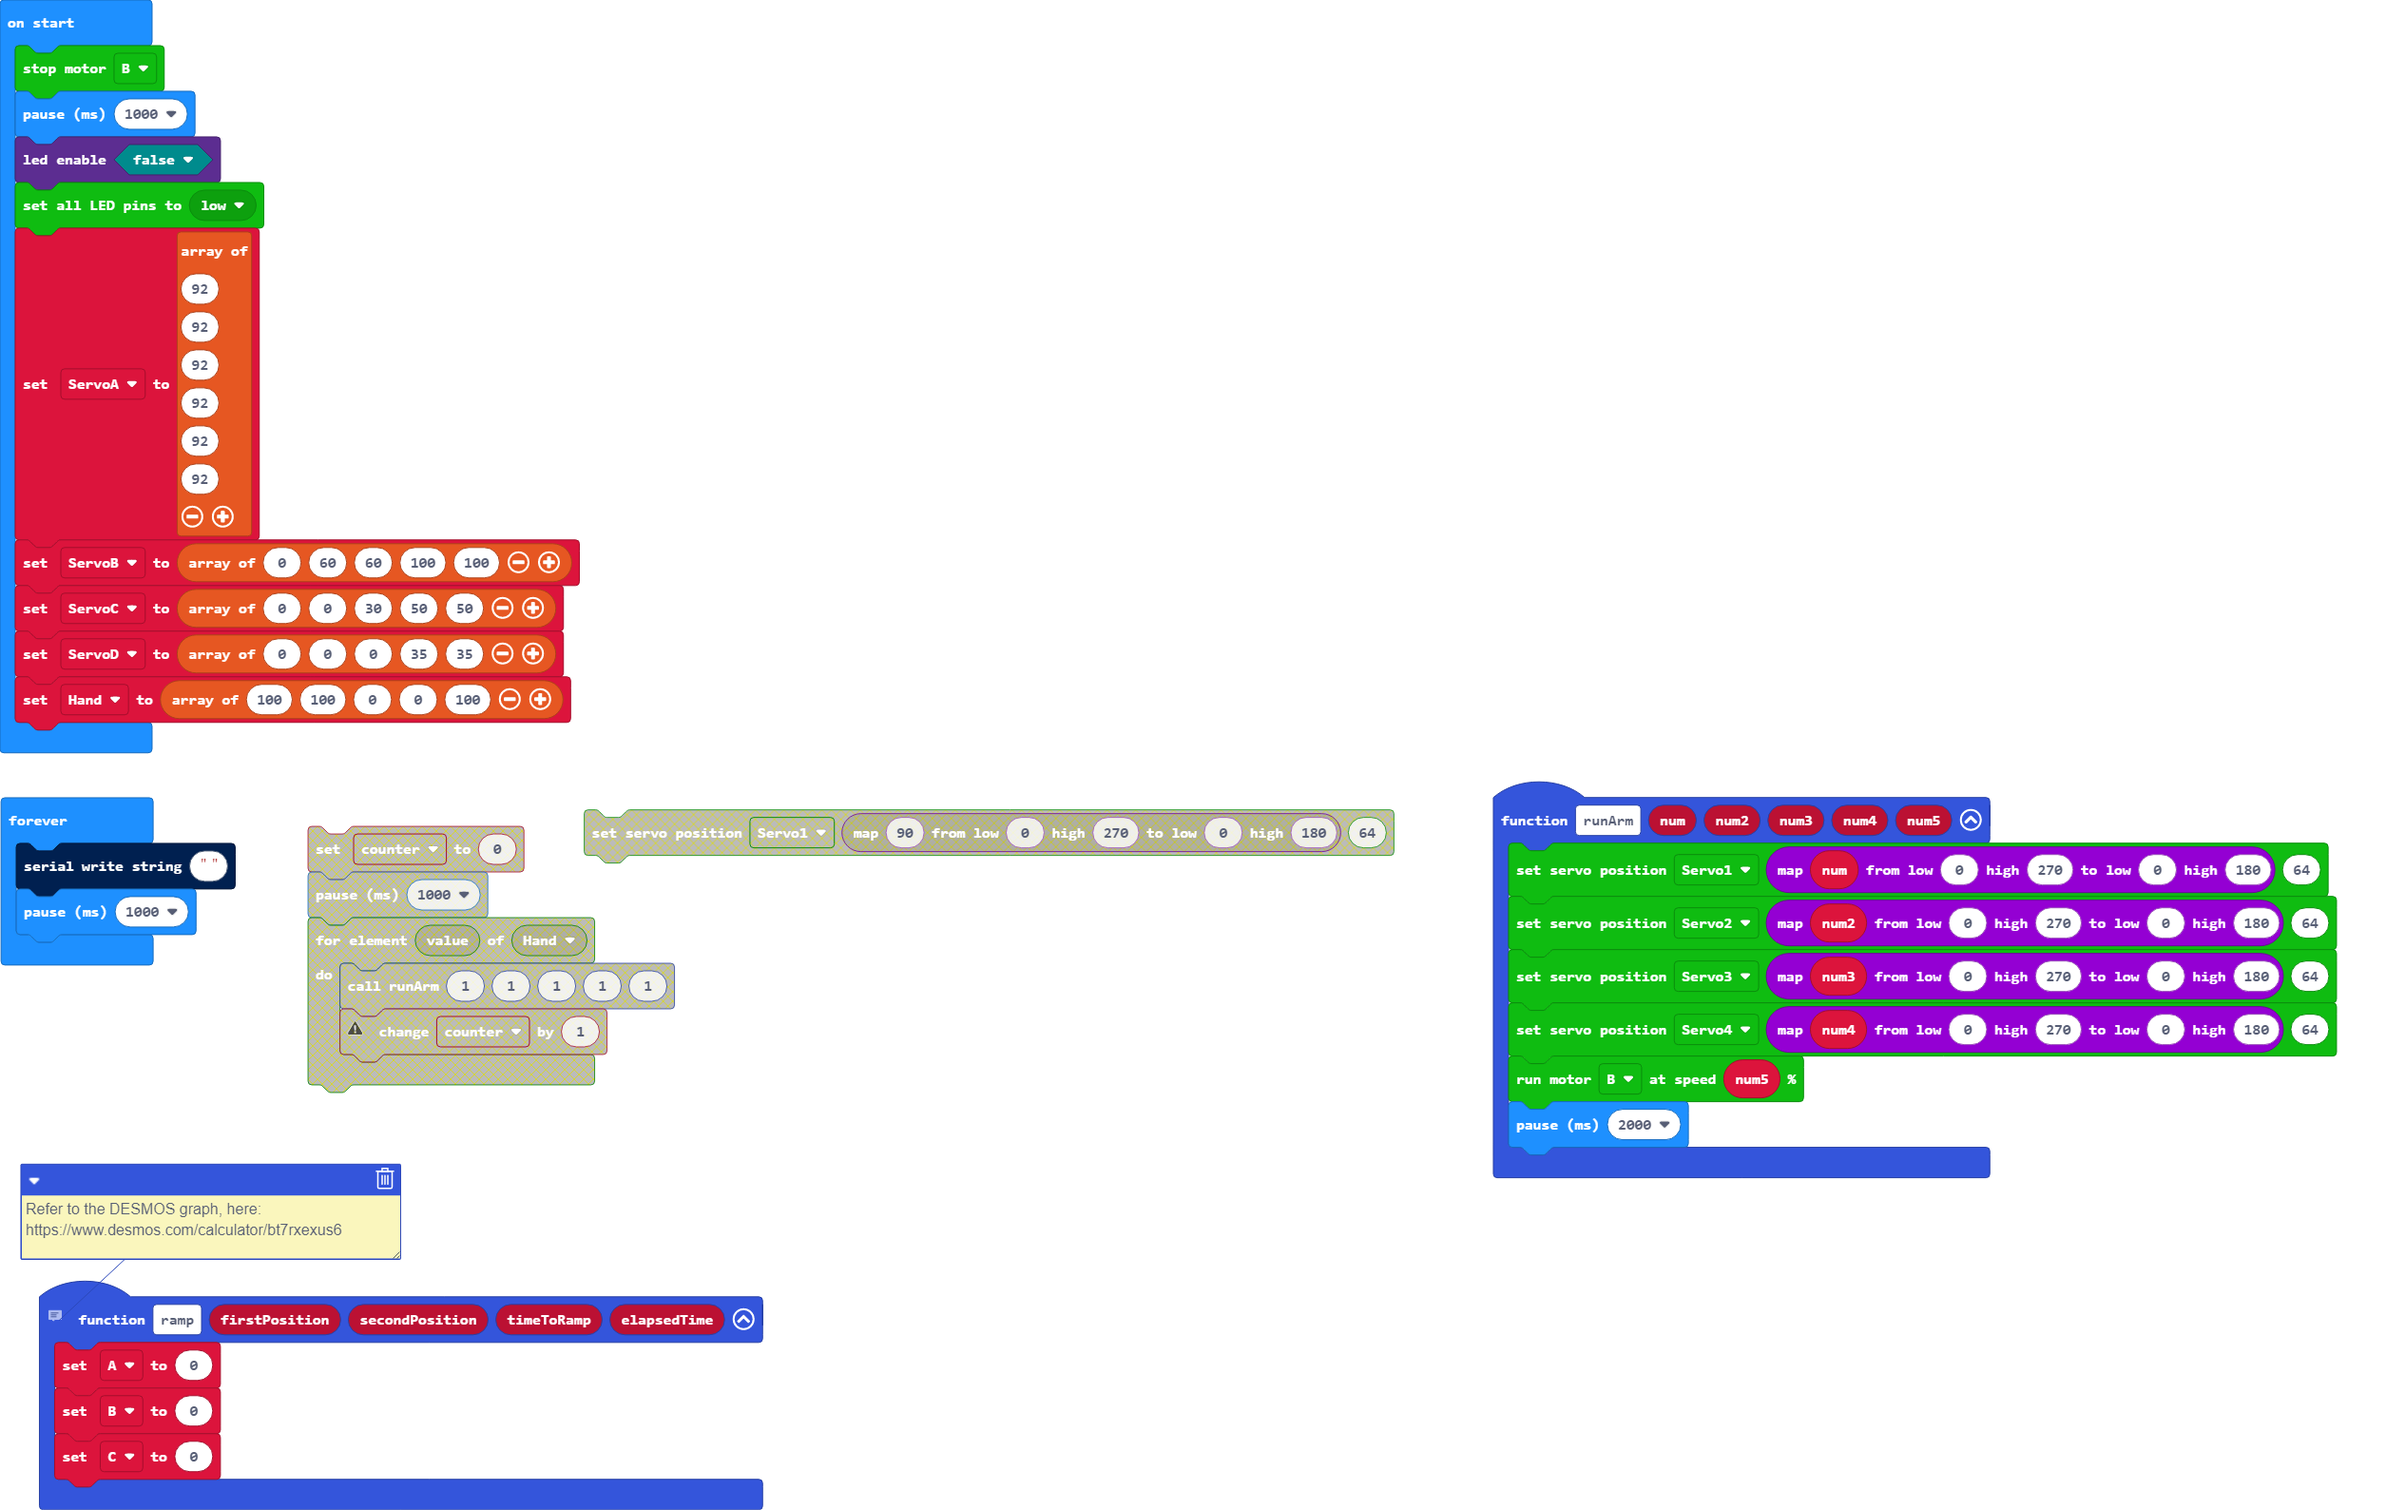
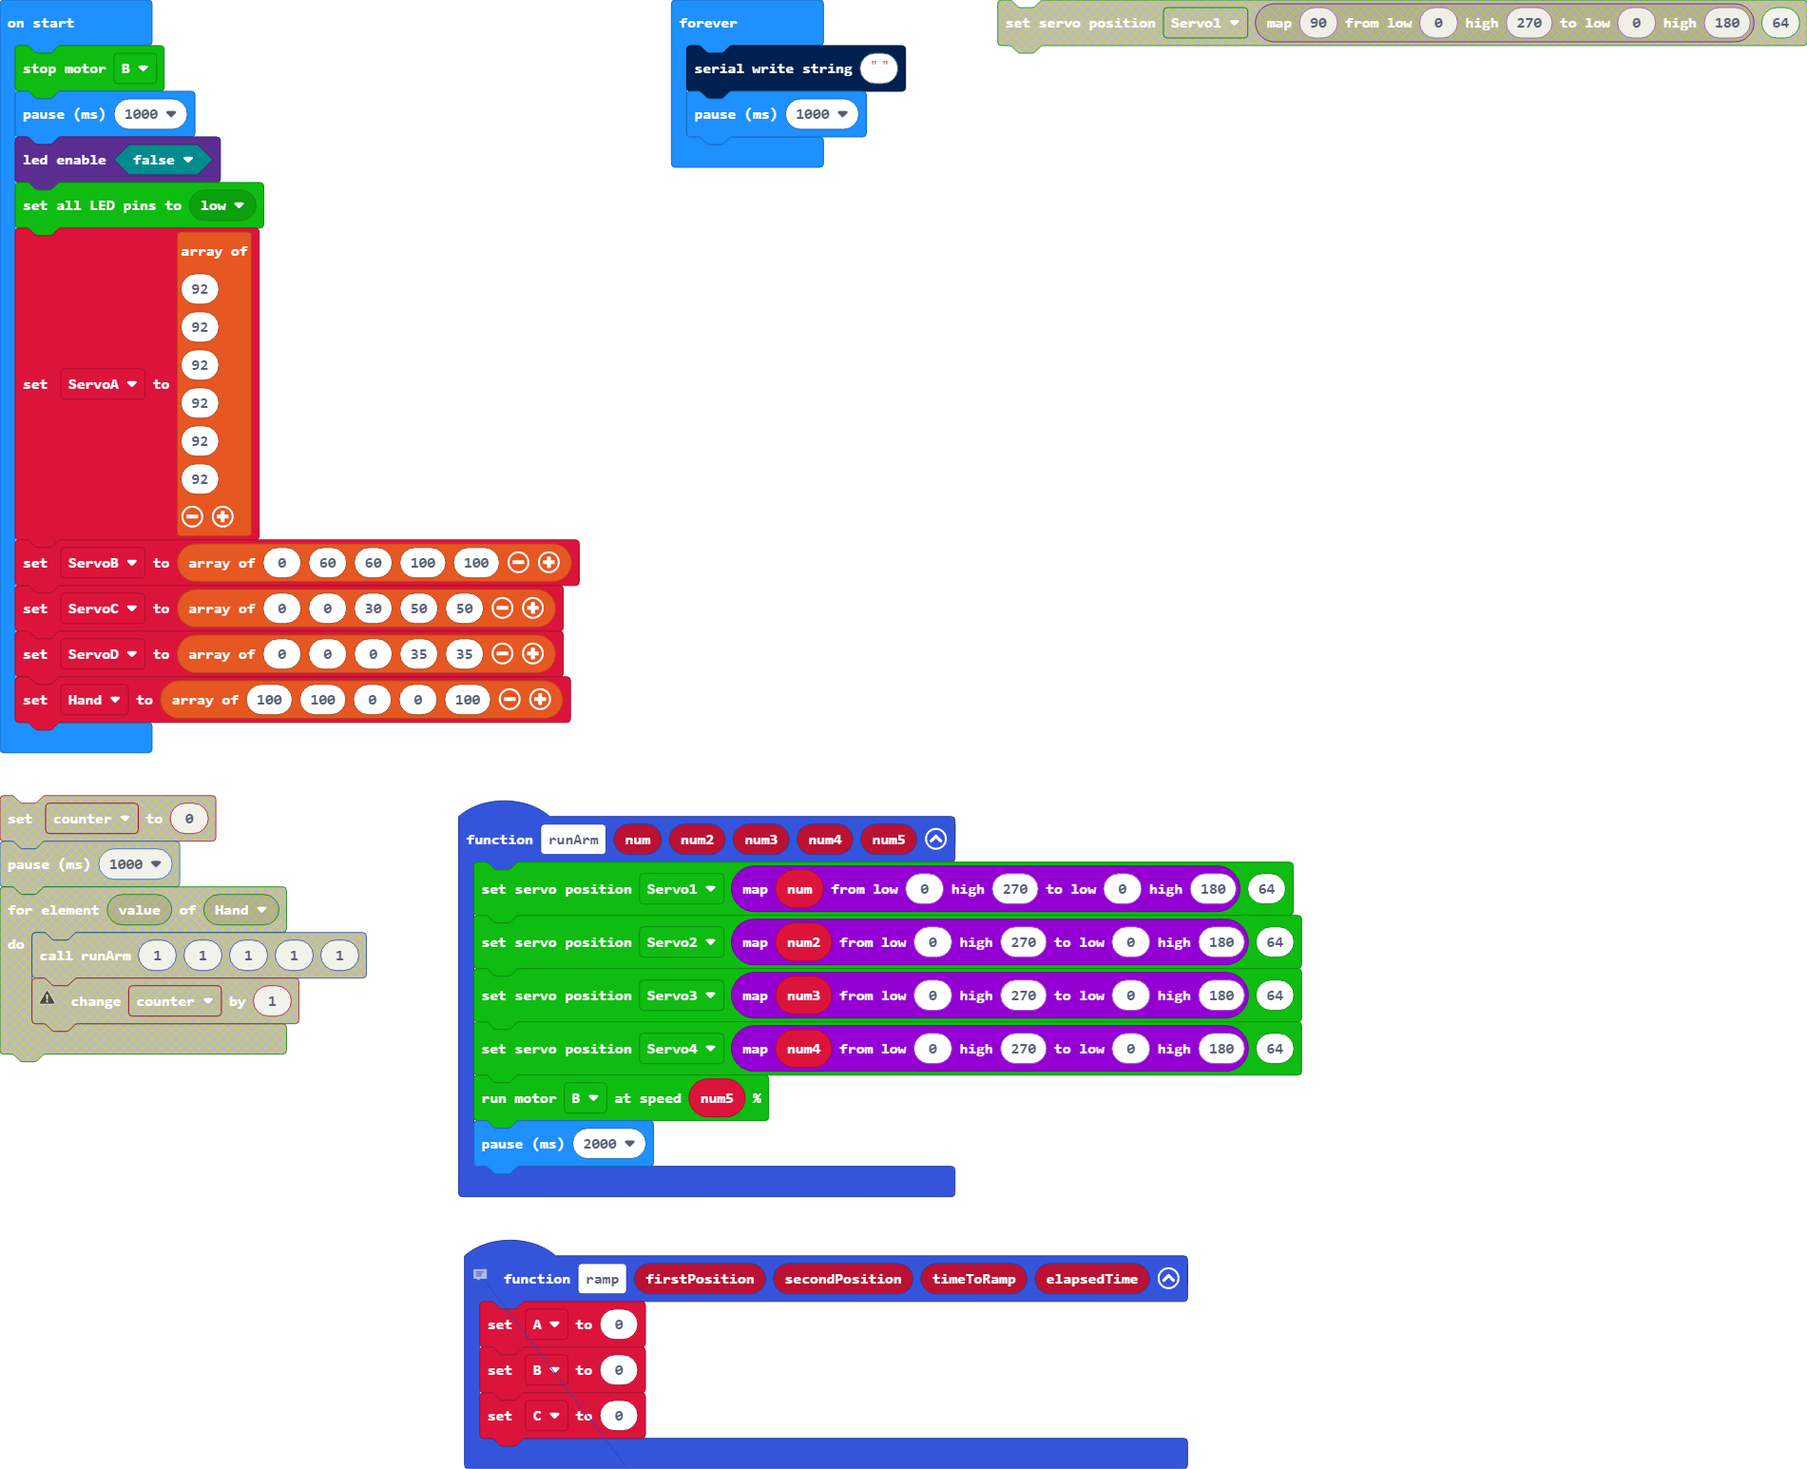
Update pxt.json, main.blocks, main.ts

diff --git a/main.ts b/main.ts
@@ -1,9 +1,16 @@
 // Refer to the DESMOS graph, here:
 // https://www.desmos.com/calculator/bt7rxexus6
+// 
+// For Simplicity:
+// A is X scaling
+// B is Y scaling
+// C is y
 function ramp (firstPosition: number, secondPosition: number, timeToRamp: number, elapsedTime: number) {
-    A = 0
-    B = 0
-    C = 0
+    A = timeToRamp
+    B = Math.abs(firstPosition - secondPosition)
+    C = firstPosition
+    X = elapsedTime
+    Y = ((3*B*Math.pow((X/A), 3)) - (2*B*Math.pow((X/A), 3)) + C)
 }
 function runArm (num: number, num2: number, num3: number, num4: number, num5: number) {
     PCA9685.setServoPosition(PCA9685.ServoNum.Servo1, Math.map(num, 0, 270, 0, 180), 64)
@@ -16,6 +23,8 @@ function runArm (num: number, num2: number, num3: number, num4: number, num5: nu
 let C = 0
 let B = 0
 let A = 0
+let Y = 0
+let X = 0
 makerbit.stopMotor(MakerBitMotor.B)
 basic.pause(1000)
 led.enable(false)
